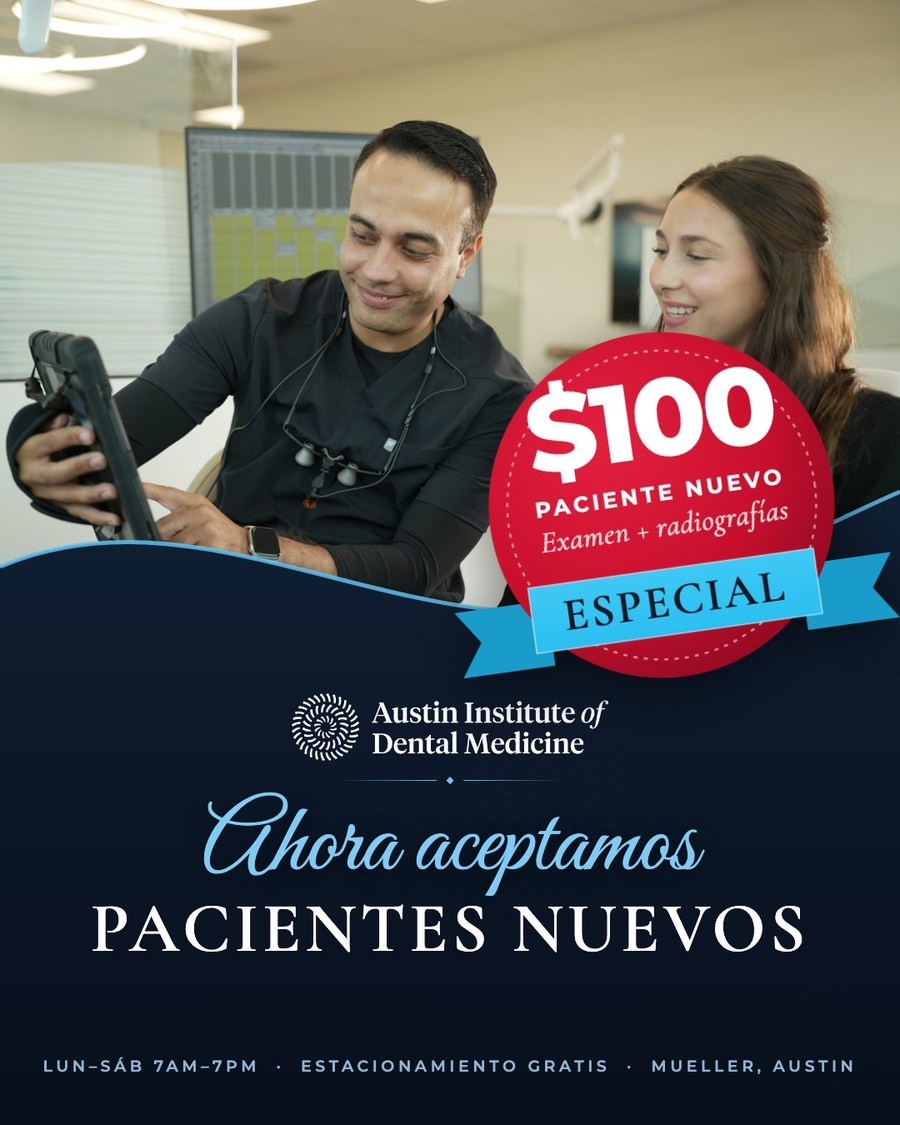
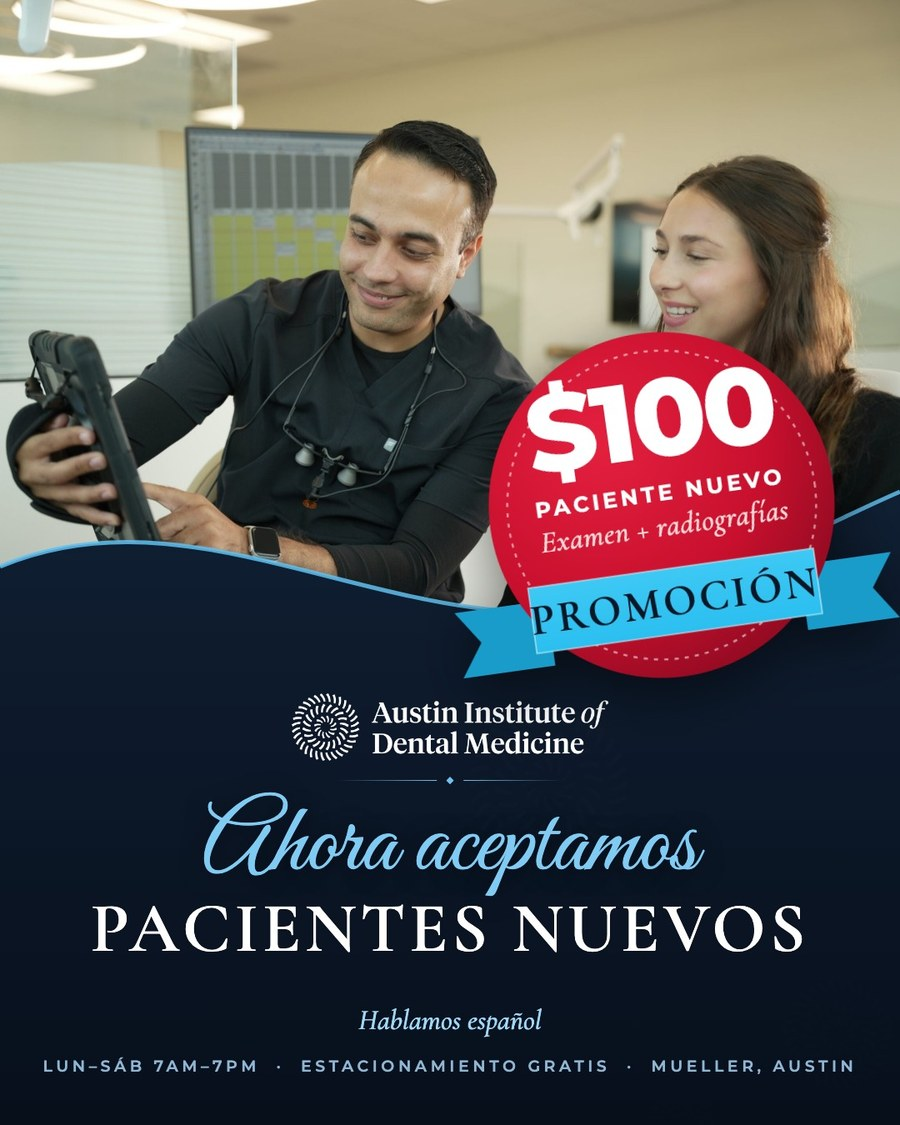
Make the Spanish creatives conversational: tú form, PROMOCIÓN ribbon, Hablamos español line

Changed region(s): [[0.5911, 0.4978, 0.9022, 0.56], [0.4044, 0.9022, 0.5911, 0.9333]]

diff --git a/tools/meta/build_creatives.py b/tools/meta/build_creatives.py
@@ -6,6 +6,7 @@ price sits in a red badge as the first thing the eye lands on; copy is cut
 to a headline, one tagline and the hours line.
 """
 import base64, os, sys
+import html as html_mod
 from playwright.sync_api import sync_playwright
 
 HERE = os.path.dirname(os.path.abspath(__file__))
@@ -99,10 +100,10 @@ SPECS = {
     'c1': dict(
         photo=os.path.join(ROOT, 'aidm-lp-assets/staff/resident-patient.jpg'),
         pos='50% 35%', badge_style='--s:420px;top:396px;right:76px', shift=36,
-        badge='circle', price='$100', badge_top='PACIENTE NUEVO', badge_bottom='ESPECIAL',
+        badge='circle', price='$100', badge_top='PACIENTE NUEVO', badge_bottom='PROMOCI&Oacute;N',
         badge_note='Examen + radiografías',
         script='Ahora aceptamos', caps='Pacientes Nuevos',
-        tagline='',
+        tagline='', note='Hablamos español',
         hours='Lun&ndash;S&aacute;b 7am&ndash;7pm &nbsp;&middot;&nbsp; Estacionamiento gratis &nbsp;&middot;&nbsp; Mueller, Austin',
     ),
     'c2': dict(
@@ -110,7 +111,7 @@ SPECS = {
         photo=os.path.join(PROJ, 'vydhai/aidm-creative/assets/a1_front_desk.jpg'),
         pos='50% 60%',
         circles=[os.path.join(PROJ, 'vydhai/aidm-creative/assets/a1_exterior.jpg'), os.path.join(PROJ, 'vydhai/aidm-creative/assets/a1_waiting.jpg'), os.path.join(PROJ, 'vydhai/aidm-creative/assets/a1_treatment.jpg')],
-        head='El nuevo hogar dental<br>de su familia.', head_size=86,
+        head='El nuevo hogar dental<br>de tu familia.', head_size=86, note='Hablamos español',
         hours='Lun&ndash;S&aacute;b 7am&ndash;7pm &nbsp;&middot;&nbsp; Estacionamiento gratis &nbsp;&middot;&nbsp; Mueller, Austin',
     ),
 }
@@ -130,6 +131,8 @@ body{width:1080px;height:1350px;overflow:hidden;background:#0b1727;font-family:'
 .caps{position:absolute;left:0;right:0;top:calc(1036px + var(--y));text-align:center;font-weight:600;font-size:84px;line-height:1;letter-spacing:.06em;text-transform:uppercase}
 .rule{position:absolute;left:50%;top:1150px;transform:translateX(-50%);width:300px;height:2px;background:linear-gradient(90deg,transparent,#3fa9e6,transparent)}
 .tag{position:absolute;left:0;right:0;top:1170px;text-align:center;font-style:italic;font-weight:500;font-size:40px;color:#9fd8f7}
+.note{position:absolute;left:0;right:0;top:calc(1168px + var(--y));text-align:center;font-style:italic;font-weight:500;font-size:34px;color:#9fd8f7}
+.a1 .note{top:1214px;font-size:32px}
 .hours{position:absolute;left:0;right:0;top:1268px;text-align:center;font-family:Montserrat,sans-serif;font-weight:600;font-size:19px;letter-spacing:.24em;color:#8fb6d3;text-transform:uppercase}
 
 
@@ -189,7 +192,7 @@ def circle_svg(label):
 <polygon points="310,246 294,232 294,246" fill="#0f6f93"/>
 <rect x="30" y="232" width="280" height="64" fill="url(#rb)"/>
 <rect x="30" y="232" width="280" height="64" fill="none" stroke="#fff" stroke-opacity=".5" stroke-width="1.5"/>
-<text x="170" y="278" text-anchor="middle" font-family="'Cormorant Garamond',serif" font-weight="700" font-size="{50 if len(label) <= 7 else 44}" letter-spacing="{5 if len(label) <= 7 else 3}" fill="#0b1727">{label}</text>
+<text x="170" y="278" text-anchor="middle" font-family="'Cormorant Garamond',serif" font-weight="700" font-size="{50 if len(html_mod.unescape(label)) <= 7 else 42}" letter-spacing="{5 if len(html_mod.unescape(label)) <= 7 else 3}" fill="#0b1727">{label}</text>
 </svg>'''
 
 def rosette_svg():
@@ -226,7 +229,7 @@ def html_a1(s):
 <img class="logo" src="{LOGO}">
 <div class="head" style="font-size:{s.get('head_size', 92)}px">{s['head']}</div>
 <div class="rule"></div>
-<div class="dia"><i></i>&#9670;<i class="r"></i></div>
+{'<div class="note">' + s['note'] + '</div>' if s.get('note') else '<div class="dia"><i></i>&#9670;<i class="r"></i></div>'}
 <div class="hours">{s.get('hours', 'Mon&ndash;Sat 7am&ndash;7pm &nbsp;&middot;&nbsp; Free parking &nbsp;&middot;&nbsp; Mueller, Austin')}</div>
 </body></html>'''
 
@@ -270,6 +273,7 @@ def html(s):
 <div class="script">{s['script']}</div>
 <div class="caps" style="font-size:{84 if len(s['caps']) <= 16 else 66}px">{s['caps']}</div>
 {tag}
+{'<div class="note">' + s['note'] + '</div>' if s.get('note') else ''}
 <div class="hours">{s.get('hours', 'Mon&ndash;Sat 7am&ndash;7pm &nbsp;&middot;&nbsp; Free parking &nbsp;&middot;&nbsp; Mueller, Austin')}</div>
 <div class="badge {s['badge']}{' long' if len(s['price']) > 4 else ''}{' xlong' if len(s['price']) > 6 else ''}{' widelabel' if len(s['badge_top']) > 12 else ''}" style="{s.get('badge_style','')}">{badge_svg}<div class="txt">
 {'' if s['badge'] == 'circle' else '<div class="t">' + s['badge_top'] + '</div>'}{'<div class="pre">' + s['pre'] + '</div>' if s.get('pre') else ''}<div class="p">{s['price']}</div>{'<div class="t">' + s['badge_top'] + '</div>' if s['badge'] == 'circle' else '<div class="b">' + s['badge_bottom'] + '</div>'}<div class="n">{s['badge_note']}</div>
